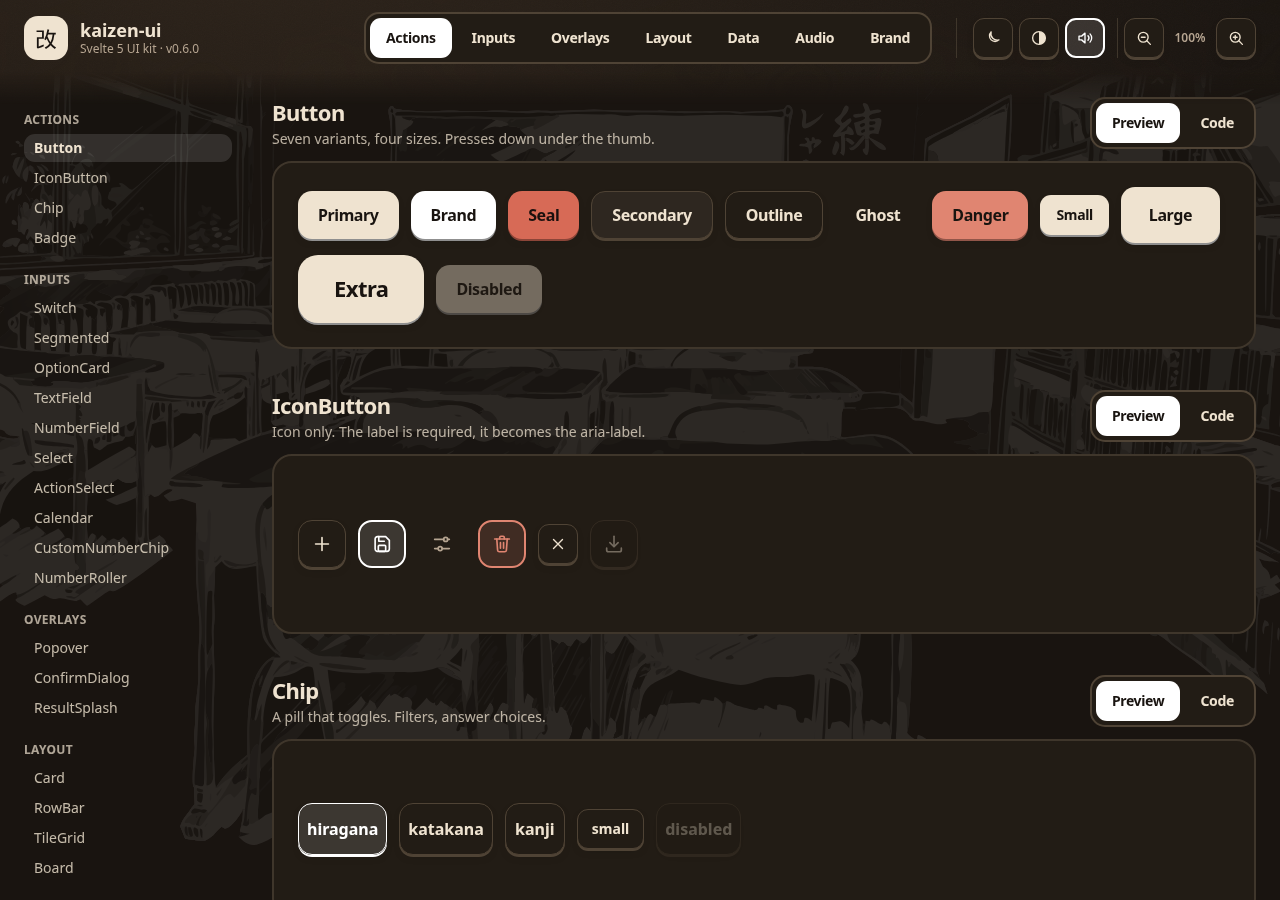
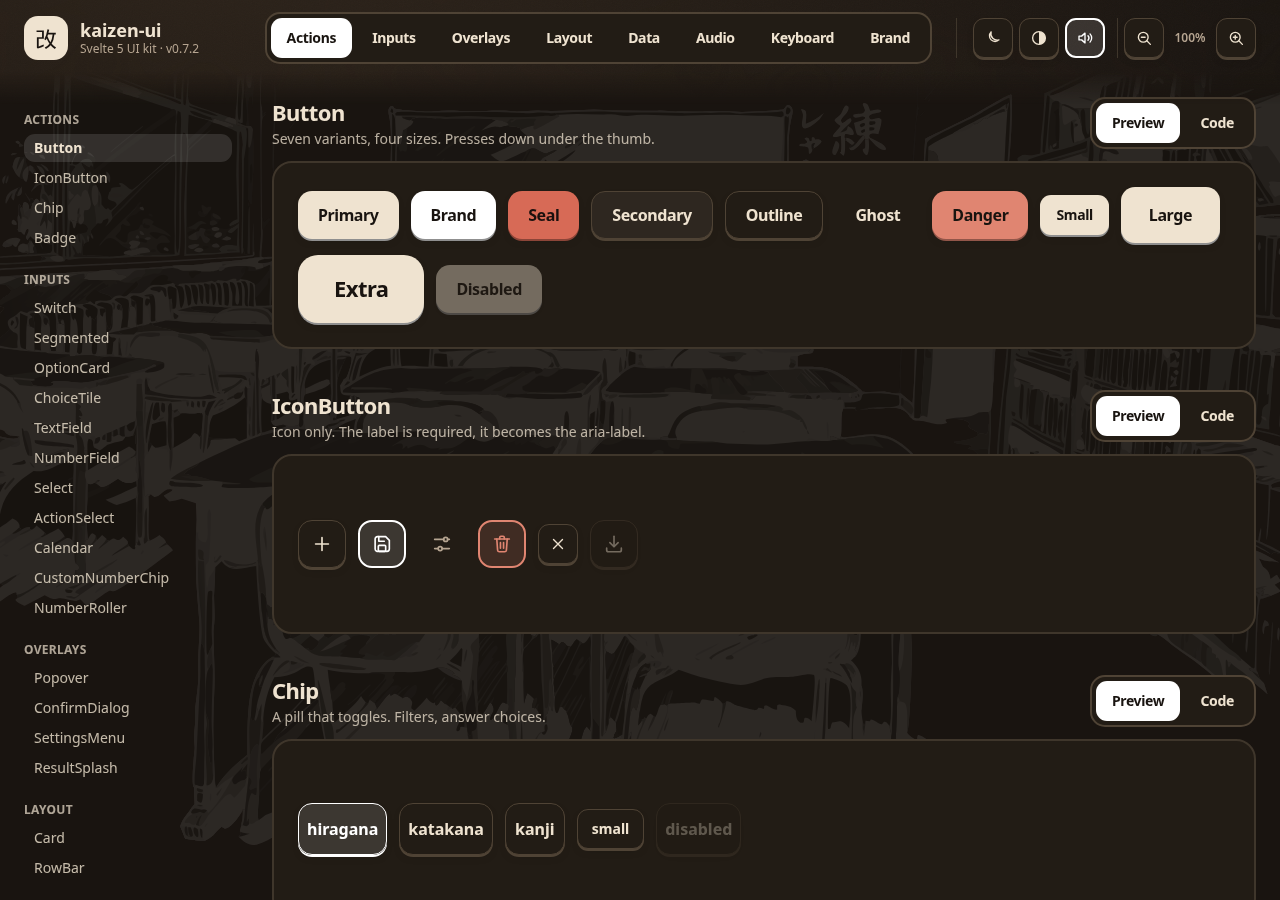
Update docs and testcases, Cache playwright browser with test_ci script.

Changed region(s): [[0.0, 0.4356, 0.125, 0.9956], [0.1875, 0.0, 0.4062, 0.0933], [0.4375, 0.0311, 0.6562, 0.0622]]

diff --git a/docs/tests/behaviour.spec.js b/docs/tests/behaviour.spec.js
@@ -99,9 +99,20 @@ test("the announcer speaks the same text twice", async ({ page }) => {
   await say.click();
   await expect(live).toHaveText("Exported 1 runs");
 
+  // The blank frame that re-fires the live region lasts 60ms, too short to
+  // catch by polling, so record every change to the node instead.
+  const changes = live.evaluate(
+    (node) =>
+      new Promise((resolve) => {
+        const seen = [];
+        new MutationObserver(() => {
+          seen.push(node.textContent);
+          if (seen.length === 2) resolve(seen);
+        }).observe(node, { characterData: true, childList: true, subtree: true });
+      })
+  );
   await say.click();
-  await expect(live).toHaveText("");
-  await expect(live).toHaveText("Exported 2 runs");
+  expect(await changes).toEqual(["", "Exported 2 runs"]);
 
   await demo.getByRole("button", { name: "Interrupt" }).click();
   const urgent = demo.locator("[role='alert']");
@@ -173,4 +184,58 @@ test("pagination steps through the pages and walks on the arrow keys", async ({ 
   await expect(next).toBeFocused();
   await page.keyboard.press("Home");
   await expect(previous).toBeFocused();
+});
+
+test("an answer tile carries its slot number and says how the answer went", async ({ page }) => {
+  const demo = await section(page, "choicetile");
+  const tiles = demo.getByRole("button");
+
+  await expect(tiles).toHaveCount(4);
+  // The number is decoration: the tile is named by its answer alone.
+  await expect(tiles.first()).toHaveAccessibleName("a");
+  await expect(tiles.first().locator("[aria-hidden='true']")).toHaveText("1");
+
+  await tiles.first().click();
+  for (const tile of await tiles.all()) await expect(tile).toBeDisabled();
+  await expect(tiles.nth(2)).toHaveClass(/border-success/);
+  await expect(tiles.first()).toHaveClass(/border-danger/);
+  await expect(tiles.nth(1)).toHaveClass(/opacity-40/);
+});
+
+test("fitted text shrinks as the text gets longer and never wraps", async ({ page }) => {
+  const demo = await section(page, "fittext");
+  const fitted = demo.locator("span[style*='font-size']").first();
+
+  const size = async () =>
+    Number.parseFloat(await fitted.evaluate((node) => getComputedStyle(node).fontSize));
+
+  await expect(fitted).toHaveCSS("white-space", "nowrap");
+  const before = await size();
+
+  await demo.getByRole("textbox").fill("counterintuitively unabbreviated");
+  await expect.poll(size).toBeLessThan(before);
+
+  // One line, whatever the length: the box height never grows with the text.
+  await expect(fitted).toHaveCSS("white-space", "nowrap");
+});
+
+test("the settings sheet writes the theme it is given", async ({ page }) => {
+  const demo = await section(page, "settingsmenu");
+  await demo.getByRole("button", { name: "Open settings" }).click();
+
+  const sheet = page.locator("dialog[open]");
+  await expect(sheet).toHaveAttribute("aria-label", "Settings");
+
+  await sheet.getByRole("button", { name: "Dark", exact: true }).click();
+  await expect(page.locator("html")).toHaveClass(/dark/);
+
+  await sheet.getByRole("switch", { name: "High contrast" }).click();
+  await expect(page.locator("html")).toHaveClass(/high-contrast/);
+  await expect(page.locator("html")).not.toHaveClass(/dark/);
+
+  await page.keyboard.press("Escape");
+  await expect(sheet).toHaveCount(0);
+  // The sheet owns the prefs, so what it set survives a reload.
+  await page.reload();
+  await expect(page.locator("html")).toHaveClass(/high-contrast/);
 });

diff --git a/docs/src/App.svelte b/docs/src/App.svelte
@@ -44,6 +44,10 @@
         ["Switch", "Fills the row, so the whole row is the hit target."],
         ["Segmented", "Pick one of a few. The Preview/Code tabs above are this."],
         ["OptionCard", "Pick one, but big enough for a thumb. For setup screens."],
+        [
+          "ChoiceTile",
+          "One answer of a multiple-choice question. Numbered so a key answers it, and it says whether the answer was right."
+        ],
         ["TextField", "Three tones: idle, correct, wrong. Turn it green when they get it right."],
         ["NumberField", "Clamps to min/max. Commits on blur or Enter, not on every keystroke."],
         [
@@ -62,6 +66,10 @@
         ["Popover", "The panel Select, ActionSelect and Calendar all hang off."],
         ["ConfirmDialog", "Two buttons, one of them destructive. Blocks until answered."],
         [
+          "SettingsMenu",
+          "What AppControls holds, as a full-screen sheet. Owns the prefs itself, so a phone layout with no header still gets them."
+        ],
+        [
           "ResultSplash",
           "The full-screen celebration after a run. Five grades, five particle effects. Plays over whatever is behind it and dismisses itself."
         ]
@@ -73,6 +81,10 @@
         ["Card", "Ruled paper. Title, icon and action are all optional."],
         ["RowBar", "A list row. Give it children and it expands instead of pressing."],
         ["TileGrid", "Equal tiles, as many per row as fit."],
+        [
+          "FitText",
+          "Text sized to its container in pure CSS, from the glyph count. No measuring pass, no reflow."
+        ],
         [
           "Pagination",
           "Arrows and numbers for a long list. Beats a nested scrollbar at any window size."

diff --git a/docs/src/demos/ChoiceTile.svelte b/docs/src/demos/ChoiceTile.svelte
@@ -1,0 +1,36 @@
+<script lang="ts">
+  import { ChoiceTile, type ChoiceState } from "kaizen-ui";
+
+  const answers = ["a", "i", "u", "e"];
+  const correct = "u";
+
+  let picked = $state<string | null>(null);
+
+  function stateOf(answer: string): ChoiceState {
+    if (picked === null) return "idle";
+    if (answer === correct) return "correct";
+    if (answer === picked) return "wrong";
+    return "dimmed";
+  }
+</script>
+
+<div class="flex w-full flex-col gap-3">
+  <p class="text-h2 jp font-bold" lang="ja">う</p>
+
+  <div class="grid w-full max-w-md grid-cols-2 gap-3">
+    {#each answers as answer, index (answer)}
+      <ChoiceTile
+        slot={index + 1}
+        label={answer}
+        state={stateOf(answer)}
+        disabled={picked !== null}
+        onpick={() => (picked = answer)}
+      />
+    {/each}
+  </div>
+
+  <p class="text-sm text-foreground/75">
+    The corner number is the key that answers it. Pick one and the rest dim, the right one turns
+    green and a wrong one shakes.
+  </p>
+</div>

diff --git a/docs/src/demos/FitText.svelte b/docs/src/demos/FitText.svelte
@@ -1,0 +1,27 @@
+<script lang="ts">
+  import { FitText, TextField } from "kaizen-ui";
+
+  let text = $state("counterintuitive");
+</script>
+
+<div class="flex w-full flex-col gap-3">
+  <div class="flex flex-wrap gap-3">
+    <div
+      class="@container flex aspect-[3/2] w-44 items-center justify-center rounded-2xl border-2 border-border bg-surface"
+    >
+      <FitText {text} cap={30} em={0.55} class="font-bold" />
+    </div>
+    <div
+      class="@container flex aspect-square w-44 items-center justify-center rounded-2xl border-2 border-border bg-surface"
+    >
+      <FitText text="日本語" cap={34} em={1} unit="cqmin" lang="ja" class="jp font-bold" />
+    </div>
+  </div>
+
+  <TextField bind:value={text} label="Type something long" />
+
+  <p class="text-sm text-foreground/75">
+    The size is CSS, not a measuring pass: it comes from the glyph count against the container
+    width, so it never wraps and never reflows twice.
+  </p>
+</div>

diff --git a/docs/src/demos/SettingsMenu.svelte b/docs/src/demos/SettingsMenu.svelte
@@ -1,0 +1,18 @@
+<script lang="ts">
+  import { Button, SettingsMenu } from "kaizen-ui";
+
+  let open = $state(false);
+</script>
+
+<div class="flex flex-col gap-3">
+  <Button variant="outline" size="sm" onclick={() => (open = true)}>Open settings</Button>
+
+  <p class="text-sm text-foreground/75">
+    Everything <code>AppControls</code> holds, laid out as a full-screen sheet for a phone. It owns the
+    prefs too, so it writes the theme, contrast, zoom, sound and locale back on its own.
+  </p>
+</div>
+
+{#if open}
+  <SettingsMenu onclose={() => (open = false)} />
+{/if}

diff --git a/src/components/Button.svelte b/src/components/Button.svelte
@@ -3,14 +3,7 @@
   import { sfx } from "../sfx";
 
   type Variant =
-    | "primary"
-    | "brand"
-    | "seal"
-    | "secondary"
-    | "outline"
-    | "ghost"
-    | "success"
-    | "danger";
+    "primary" | "brand" | "seal" | "secondary" | "outline" | "ghost" | "success" | "danger";
   type Size = "sm" | "md" | "lg" | "xl";
 
   let {

diff --git a/src/components/SettingsMenu.svelte b/src/components/SettingsMenu.svelte
@@ -72,7 +72,7 @@
   class="paper fullscreen-sheet fixed inset-0 z-50 flex flex-col"
   use:lockScroll={onclose}
   aria-label={text.title}
-  onclose={onclose}
+  {onclose}
 >
   <header class="flex items-center justify-between gap-3 border-b border-border px-4 py-3">
     <span class="text-h4 font-bold">{text.title}</span>

diff --git a/docs/tests/a11y.spec.js b/docs/tests/a11y.spec.js
@@ -14,7 +14,8 @@ const overlays = [
   "numberroller",
   "select",
   "actionselect",
-  "shortcuthelp"
+  "shortcuthelp",
+  "settingsmenu"
 ];
 
 for (const name of overlays) {

diff --git a/README.md b/README.md
@@ -70,11 +70,12 @@ upstream releases.
 
 ## Components
 
-`ActionSelect` `AppControls` `AppHeader` `AppMark` `Badge` `Board` `Button` `Calendar`
-`Card` `Chip` `ChoiceTile` `ConfirmDialog` `CustomNumberChip` `EmptyState` `Icon`
-`IconButton` `Meter` `NumberField` `NumberRoller` `OptionCard` `PageBackdrop`
-`Pagination` `PlayIcon` `Popover` `Progress` `RecordPlayer` `RowBar` `Segmented` `Select`
-`SettingsMenu` `Stat` `Switch` `TextField` `TileGrid` `Waveform`
+`AccuracyGrid` `ActionSelect` `Announcer` `AppControls` `AppHeader` `AppMark` `Badge`
+`Board` `Button` `Calendar` `Card` `Chip` `ChoiceTile` `ConfirmDialog` `CustomNumberChip`
+`EmptyState` `FitText` `Glyph` `HeatLegend` `Icon` `IconButton` `KeyNavBadge` `Meter`
+`NumberField` `NumberRoller` `OptionCard` `PageBackdrop` `Pagination` `PlayIcon` `Popover`
+`Progress` `RecordPlayer` `ResultSplash` `RowBar` `RowHeatmap` `Segmented` `Select`
+`SettingsMenu` `ShortcutHelp` `Stat` `Switch` `TextField` `TileGrid` `Waveform`
 
 ## Keyboard
 
